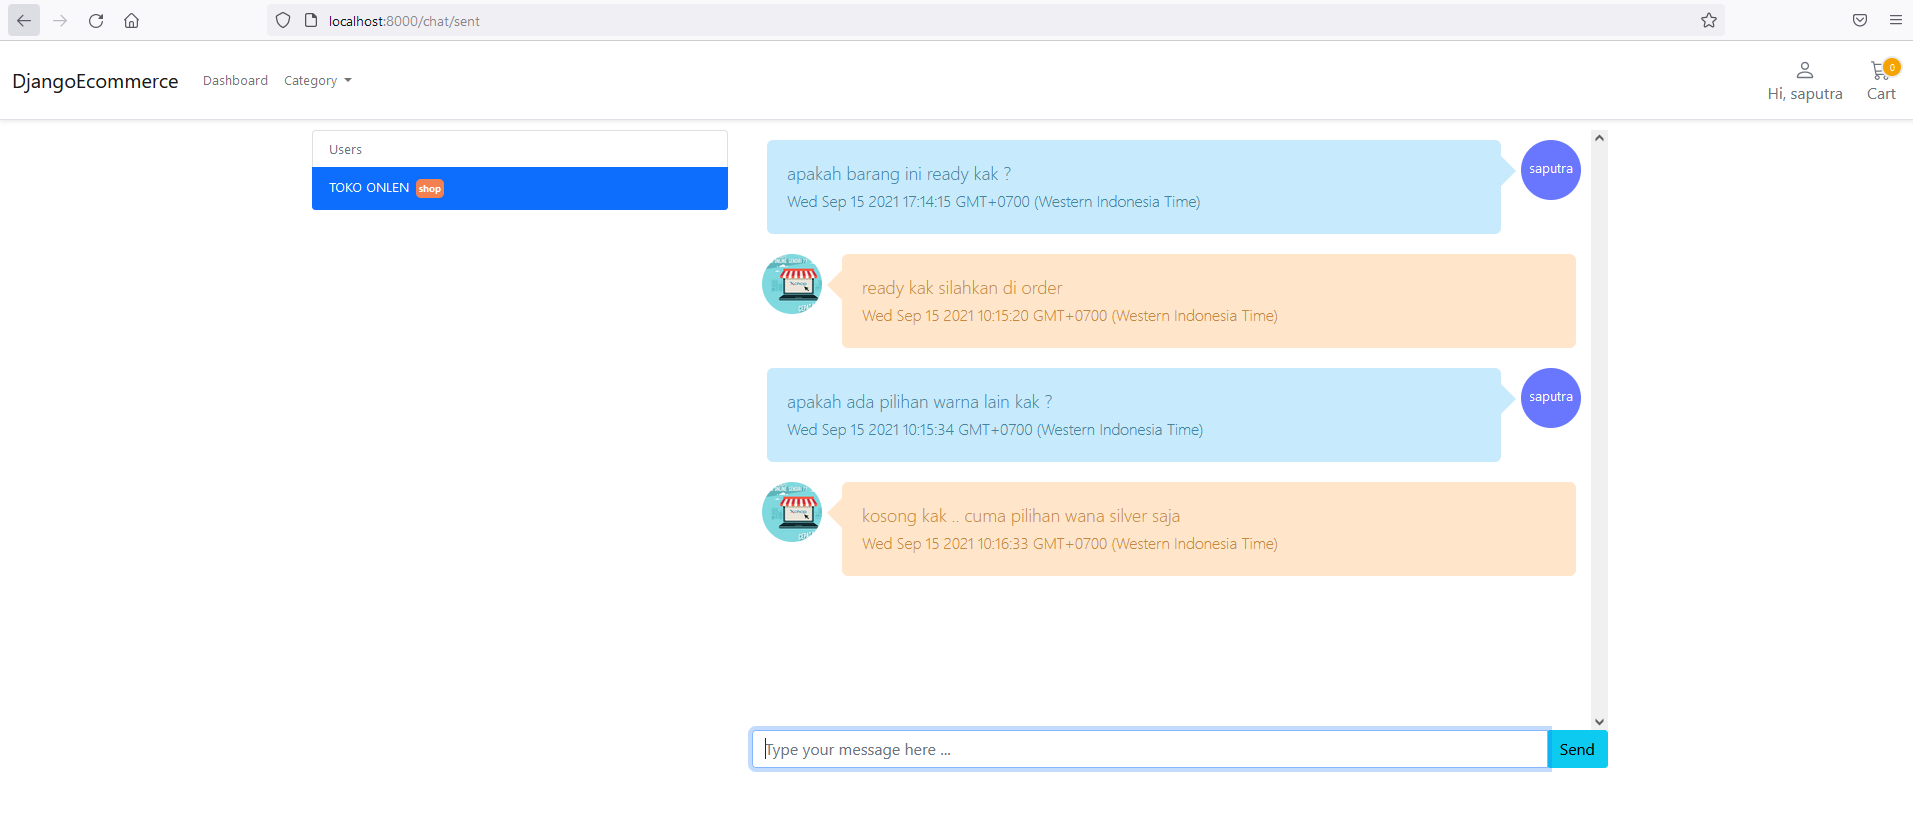
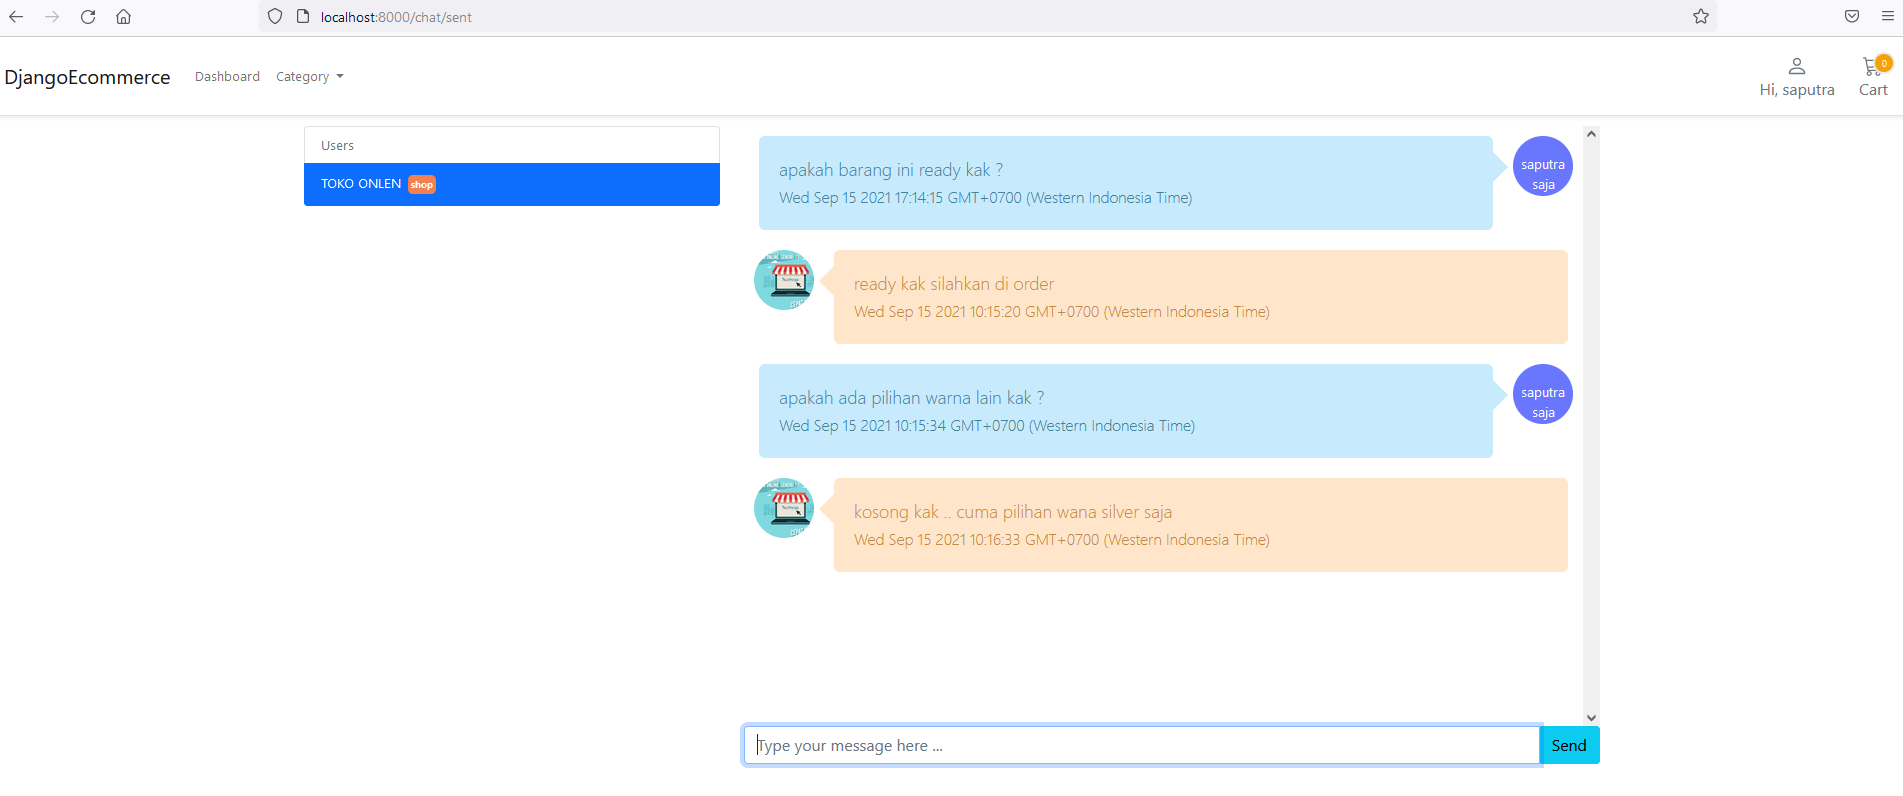
update for add uuid user

diff --git a/templates/chat/home.html b/templates/chat/home.html
@@ -15,9 +15,9 @@
                     </a>
                     {% for user in users %}
                         {% if user.shop %}
-                            <a class="list-group-item user" id="{{ user.user_name }}">{{ user.shop.title }} <div class="shop-label">shop</div></a>
+                            <a class="list-group-item user" id="{{ user.uuid }}">{{ user.shop.title }} <div class="shop-label">shop</div></a>
                         {% else %}
-                            <a class="list-group-item user" id="{{ user.user_name }}">{{ user.user_name }}</a>
+                            <a class="list-group-item user" id="{{ user.uuid }}">{{ user.user_name }}</a>
                         {% endif %}
                     {% endfor %}
                 </div>
@@ -44,7 +44,7 @@
     
     <script>
         var sessionKey = '{{ request.session.session_key }}';
-        var currentUser = '{{ request.user.user_name }}';  
+        var currentUser = '{{ request.user.uuid }}';  
     </script>
     <script src="../static/js/chat-home.js"></script>
 {% endblock %}

diff --git a/static/js/chat-home.js b/static/js/chat-home.js
@@ -11,7 +11,7 @@ function drawMessage(message) {
     
     const messageItem = `
         <li class="message ${position}">`
-            + ( message.shop_image ? `<div class="avatar" style="background-image: url('/media/${message.shop_image}'); background-size: cover;"></div>` : `<div class="avatar">${message.user}</div>`) +
+            + ( message.shop_image ? `<div class="avatar" style="background-image: url('/media/${message.shop_image}'); background-size: cover;"></div>` : `<div class="avatar">${message.full_name}</div>`) +
                 `<div class="text_wrapper">
                     <div class="text">${message.body}<br>
                         <span class="small">${date}</span>

diff --git a/templates/store/products/detail.html b/templates/store/products/detail.html
@@ -171,8 +171,8 @@
         var csrfToken = "{{ csrf_token }}";
         
         var sessionKey = '{{ request.session.session_key }}';
-        var currentUser = '{{ request.user.user_name }}';
-        var currentRecipient = '{{ product.shop.user.user_name }}';
+        var currentUser = '{{ request.user.uuid }}';
+        var currentRecipient = '{{ product.shop.user.uuid }}';
     </script>
     <script src="../static/js/store-products-detail.js"></script>
 {% endblock %}

diff --git a/chat/serializers.py b/chat/serializers.py
@@ -6,13 +6,14 @@ from chat.models import Message
 from account.models import UserBase
 
 class MessageModelSerializer(ModelSerializer):
-    user = CharField(source='user.user_name', read_only=True)
-    recipient = CharField(source='recipient.user_name')
+    user = CharField(source='user.uuid', read_only=True)
+    recipient = CharField(source='recipient.uuid')
     shop_image = CharField(source='user.shop.image', read_only=True)
+    full_name = CharField(source='user.full_name', read_only=True)
 
     def create(self, validated_data):
         user = self.context['request'].user
-        recipient = get_object_or_404(UserBase, user_name=validated_data['recipient']['user_name'])
+        recipient = get_object_or_404(UserBase, uuid=validated_data['recipient']['uuid'])
         
         msg = Message(recipient=recipient, body=validated_data['body'], user=user)
         
@@ -22,7 +23,7 @@ class MessageModelSerializer(ModelSerializer):
 
     class Meta:
         model = Message
-        fields = ('id', 'user', 'recipient', 'shop_image', 'created', 'body')
+        fields = ('id', 'user', 'recipient', 'shop_image', 'full_name', 'created', 'body')
 
 
 class UserModelSerializer(ModelSerializer):

diff --git a/account/models.py b/account/models.py
@@ -1,6 +1,6 @@
+import uuid
 from django.contrib.auth.models import (AbstractBaseUser, BaseUserManager, PermissionsMixin)
 from django.db import models
-
 
 class CustomAccountManager(BaseUserManager):
     
@@ -32,7 +32,8 @@ class CustomAccountManager(BaseUserManager):
         return user
     
 class UserBase(AbstractBaseUser, PermissionsMixin):
-
+    uuid = models.UUIDField(default=uuid.uuid4, unique=True, editable=False)
+    
     email = models.EmailField(unique=True)
     user_name = models.CharField(max_length=150, unique=True)
     full_name = models.CharField(max_length=255, blank=True)

diff --git a/chat/api.py b/chat/api.py
@@ -41,7 +41,7 @@ class MessageModelViewSet(ModelViewSet):
         target = self.request.query_params.get('target', None)
         
         if target is not None:
-            self.queryset = self.queryset.filter(Q(recipient=request.user, user__user_name=target) | Q(recipient__user_name=target, user=request.user))
+            self.queryset = self.queryset.filter(Q(recipient=request.user, user__uuid=target) | Q(recipient__uuid=target, user=request.user))
         
         return super(MessageModelViewSet, self).list(request, *args, **kwargs)
 

diff --git a/account/migrations/0003_userbase_uuid.py b/account/migrations/0003_userbase_uuid.py
@@ -1,0 +1,19 @@
+# Generated by Django 3.1.4 on 2021-09-17 01:45
+
+from django.db import migrations, models
+import uuid
+
+
+class Migration(migrations.Migration):
+
+    dependencies = [
+        ('account', '0002_auto_20210915_0846'),
+    ]
+
+    operations = [
+        migrations.AddField(
+            model_name='userbase',
+            name='uuid',
+            field=models.UUIDField(default=uuid.uuid4, editable=False, unique=True),
+        ),
+    ]
